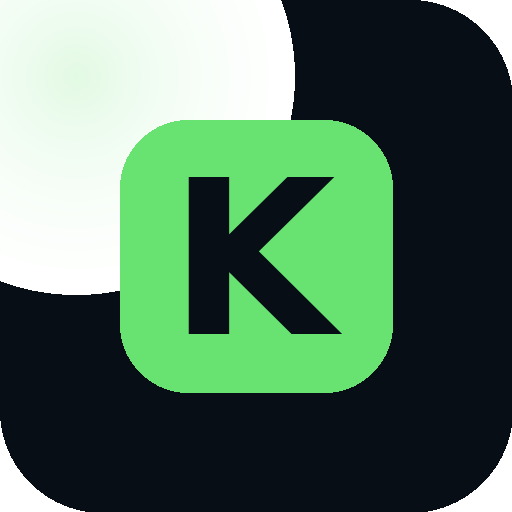
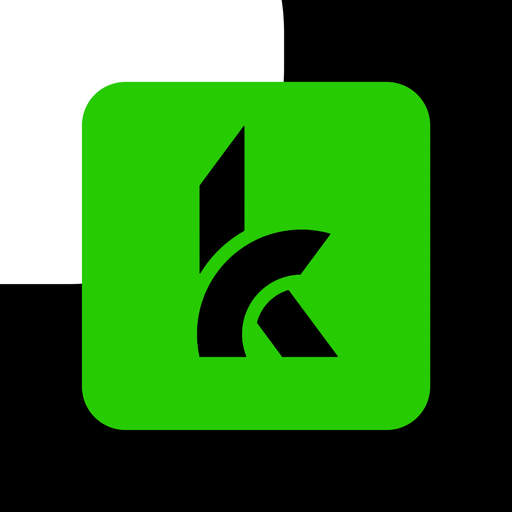
Add files via upload

diff --git a/index.html b/index.html
@@ -20,8 +20,9 @@
   <meta name="twitter:description" content="Create your digital contact card and let anyone save your details instantly." />
 
   <link rel="manifest" href="/manifest.json" />
-  <link rel="icon" type="image/svg+xml" href="/icon.svg" />
-  <link rel="apple-touch-icon" href="/icon-192.png" />
+  <link rel="icon" type="image/png" href="/icon-192.png" />
+  <link rel="icon" type="image/png" href="/icon-512.png" sizes="512x512" />
+  <link rel="apple-touch-icon" href="/apple-touch-icon.png" />
   <link rel="preconnect" href="https://fonts.googleapis.com" />
   <link rel="preconnect" href="https://fonts.gstatic.com" crossorigin />
   <link href="https://fonts.googleapis.com/css2?family=Space+Grotesk:wght@400;500;600;700&family=JetBrains+Mono:wght@400;600&display=swap" rel="stylesheet" />
@@ -1803,7 +1804,7 @@
       const bar = el("div", { class: "topbar" });
       const inner = el("div", { class: "center-col row" });
       const brand = el("a", { href: "/", class: "brand", title: "kaytact — triple-click for admin" });
-      brand.innerHTML = `<span class="brand-mark">K</span><span>kaytact</span>`;
+      brand.innerHTML = `<img src="/icon-192.png" alt="kaytact" style="width: 26px; height: 26px; border-radius: 7px; object-fit: cover;" /><span>kaytact</span>`;
 
       // Triple-click brand → /admin/login (secret access)
       // Simpler, more reliable: count clicks within 500ms window

diff --git a/sw.js b/sw.js
@@ -2,11 +2,12 @@
  * This prevents stale cached pages from showing 404s.
  * Static assets (icons, QR lib) are cached for offline use.
  */
-const CACHE = "kaytact-v2";
+const CACHE = "kaytact-v3";
 const ASSETS = [
-  "/icon.svg",
   "/icon-192.png",
   "/icon-512.png",
+  "/apple-touch-icon.png",
+  "/favicon.ico",
   "/qr-lib.js",
   "/manifest.json",
 ];
